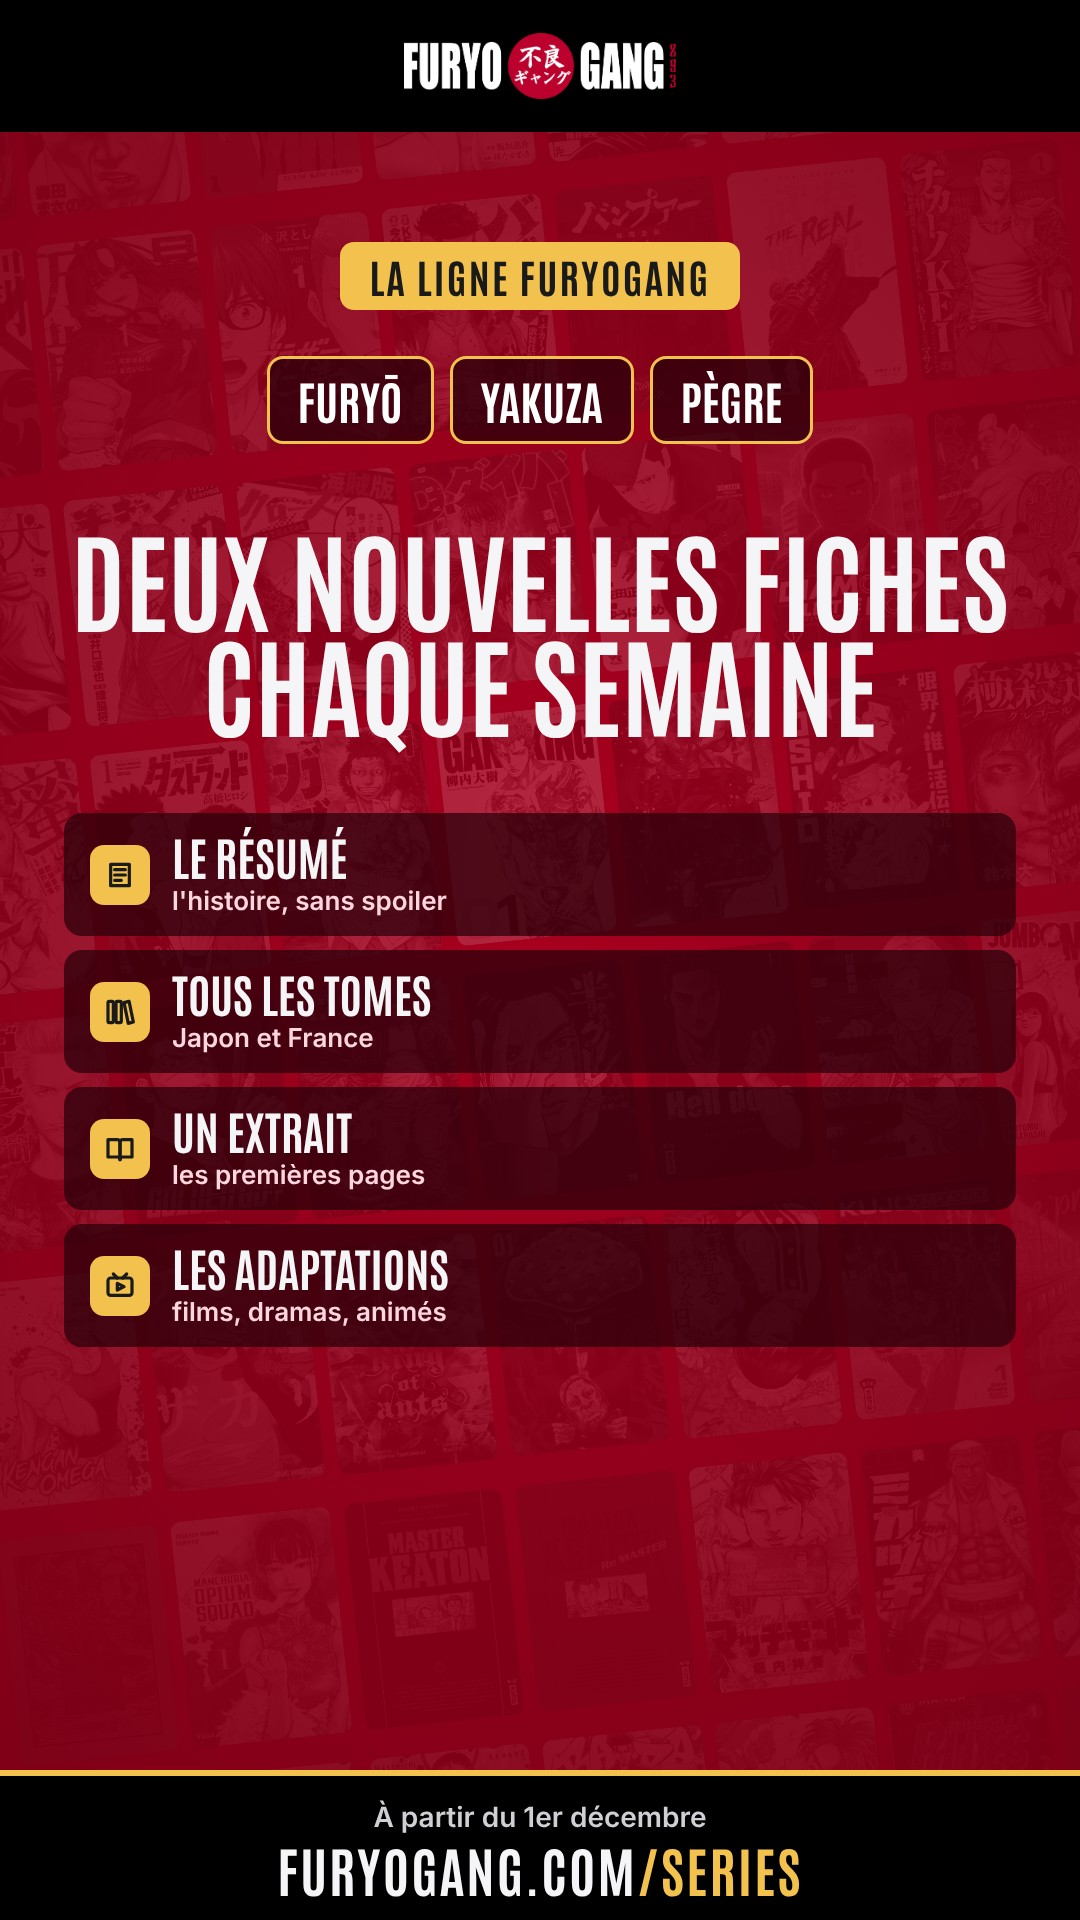
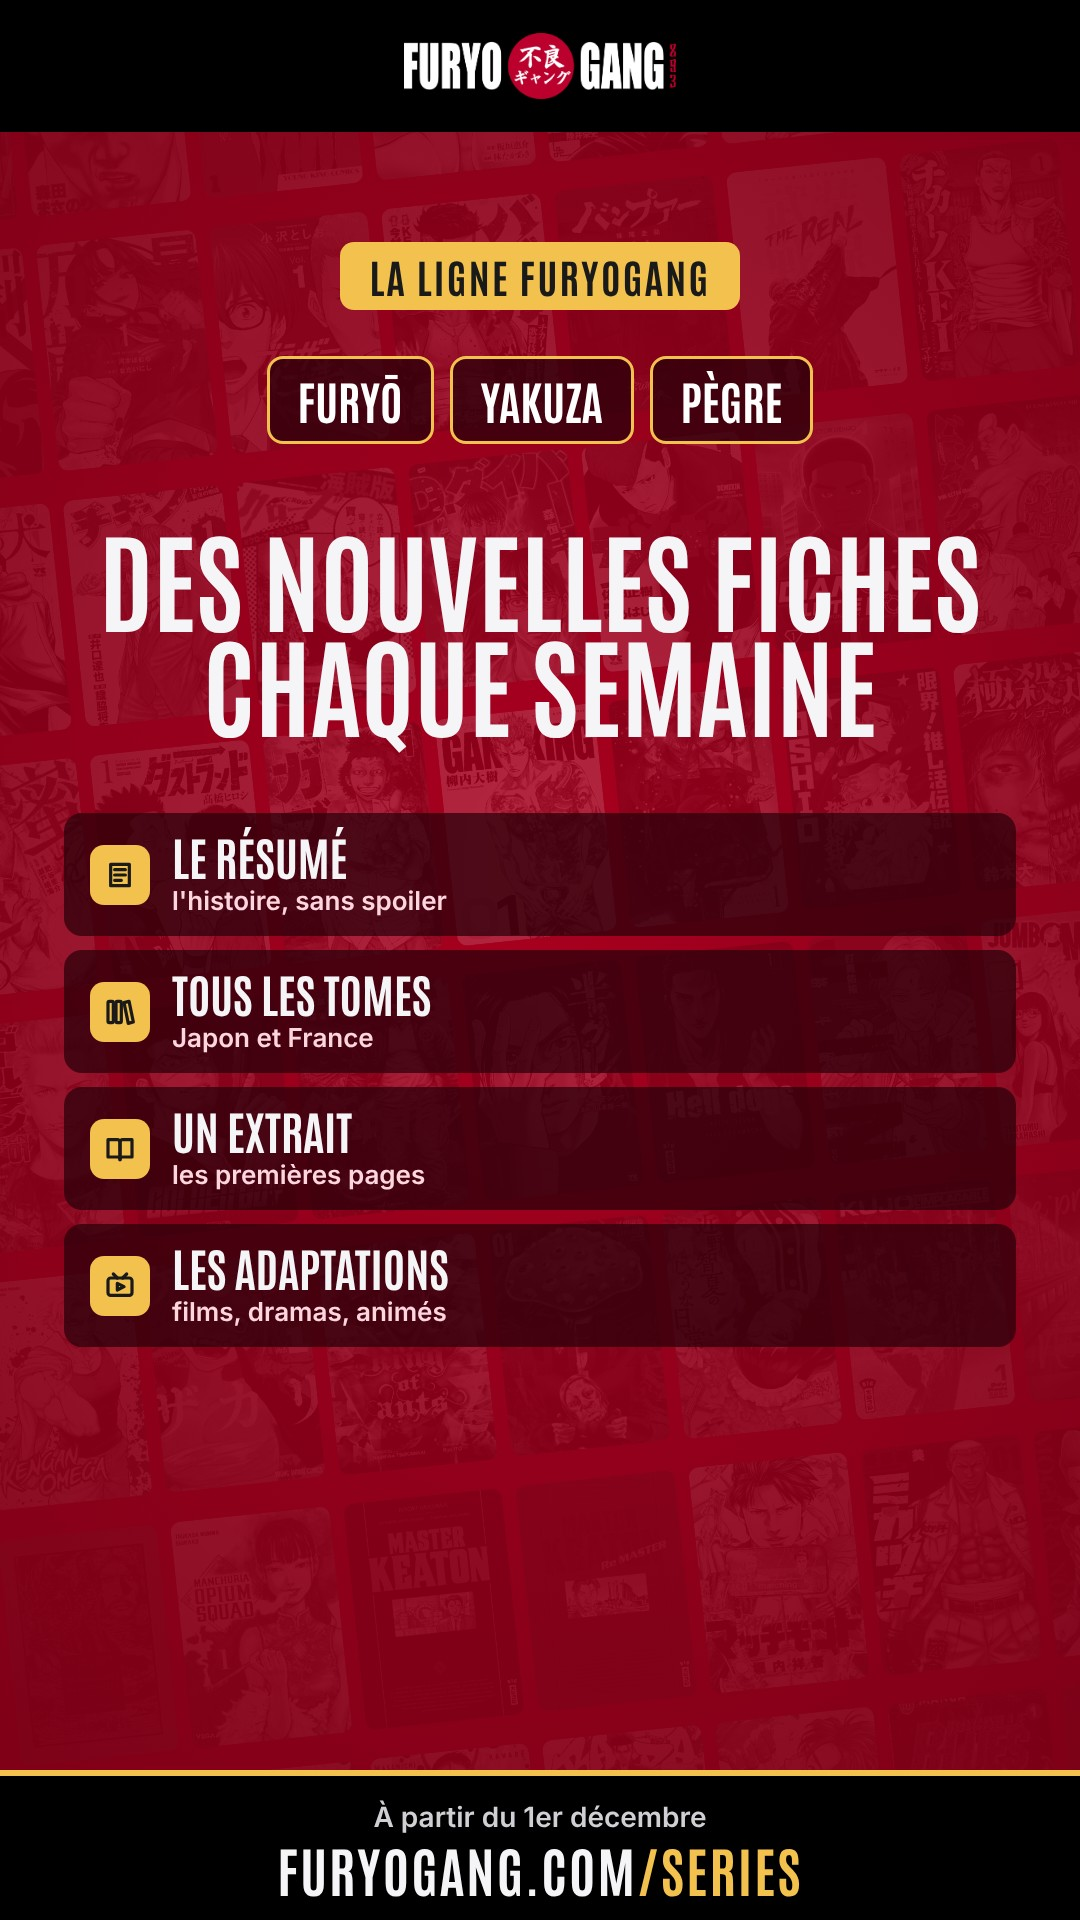
Annonce Manga Database : « Des nouvelles fiches chaque semaine »
Claude-Session: https://claude.ai/code/session_01ShgbxL6GpEPzbudUpDfTjj

Changed region(s): [[0.0611, 0.2812, 0.9472, 0.3438]]

diff --git a/functions/api/admin/calendrier.js b/functions/api/admin/calendrier.js
@@ -10,7 +10,7 @@
 // Un événement peut porter : imp (important), tirage (texte), visuels (liste d'URL), textes {ig,tw,tiktok}.
 import { json, isAdmin } from "../../../lib/admin.js";
 const CLE = "hq:calendrier";
-const SEED_V = 11; // bump → rejoue la migration des rendez-vous de départ (garde les ajouts de Will)
+const SEED_V = 12; // bump → rejoue la migration des rendez-vous de départ (garde les ajouts de Will)
 const uid = () => Date.now().toString(36) + Math.random().toString(36).slice(2, 6);
 
 // Textes prêts à publier pour le concours figurine (validés avec Will, 18/10).
@@ -51,7 +51,7 @@ const DEPART = {
       note: "Annonce des fiches : le post (Instagram + X) et les 3 stories. Programmer à 17 h.",
       visuels: ["/img/annonce/manga-database/post.jpg"],
       stories: ["/img/annonce/manga-database/story-1.jpg", "/img/annonce/manga-database/story-2.jpg", "/img/annonce/manga-database/story-3.jpg"],
-      textes: { ig: "📢 NOUVEAU SUR FURYOGANG : LA MANGA DATABASE 📚\n\nVous pouviez déjà gérer votre collection sur le site. Place maintenant aux fiches 🗂\n\nFuryoGang devient une vraie base de données des mangas furyō, yakuza et pègre. Deux nouvelles fiches chaque semaine, à partir du 1er décembre :\n📖 le résumé\n📚 tous les tomes, au Japon et en France\n📅 les prochaines sorties\n👀 un extrait\n🎬 les adaptations\n\nPremière fiche mardi. Vous devinez laquelle ? 🐦⬛\n\n#FuryoGang #manga #furyo #yakuza #mangafr", tw: "Nouveau sur FuryoGang : la Manga Database\nVous pouviez déjà gérer votre collection sur le site. Place maintenant aux fiches.\n\nUne base des mangas furyō, yakuza et pègre : résumé, tomes, sorties, extraits, adaptations. Deux nouvelles fiches chaque semaine.\n\nPremière fiche mardi.", tiktok: "" },
+      textes: { ig: "📢 NOUVEAU SUR FURYOGANG : LA MANGA DATABASE 📚\n\nVous pouviez déjà gérer votre collection sur le site. Place maintenant aux fiches 🗂\n\nFuryoGang devient une vraie base de données des mangas furyō, yakuza et pègre. Des nouvelles fiches chaque semaine, à partir du 1er décembre :\n📖 le résumé\n📚 tous les tomes, au Japon et en France\n📅 les prochaines sorties\n👀 un extrait\n🎬 les adaptations\n\nPremière fiche mardi. Vous devinez laquelle ? 🐦⬛\n\n#FuryoGang #manga #furyo #yakuza #mangafr", tw: "Nouveau sur FuryoGang : la Manga Database\nVous pouviez déjà gérer votre collection sur le site. Place maintenant aux fiches.\n\nUne base des mangas furyō, yakuza et pègre : résumé, tomes, sorties, extraits, adaptations. Des nouvelles fiches chaque semaine.\n\nPremière fiche mardi.", tiktok: "" },
     },
     {
       id: "ev-concours", titre: "Concours figurine", type: "concours", date: "2026-10-21", imp: true,
@@ -114,6 +114,9 @@ function migrer(d) {
   // Types : ajoute les manquants + met à jour les noms (cosmétique, aucune donnée de Will).
   const typById = new Map(d.types.map(t => [t.id, t]));
   for (const t of DEPART.types) { const ex = typById.get(t.id); if (ex) ex.nom = t.nom; else d.types.push(JSON.parse(JSON.stringify(t))); }
+  // Annonce Manga Database : textes corrigés (« Des nouvelles fiches chaque semaine », Will 26/11/2026) tant qu'elle n'est pas publiée.
+  const an = parId.get("ev-annonce-mdb"), sAn = DEPART.events.find(e => e.id === "ev-annonce-mdb");
+  if (an && sAn && !an.fait) { an.textes = sAn.textes; an.stories = sAn.stories; an.prog = true; }
   d.sv = SEED_V;
   return d;
 }

diff --git a/modeles/annonce/manga-database.html b/modeles/annonce/manga-database.html
@@ -37,13 +37,13 @@ fetch("/api/series").then(r => r.json()).then(j => {
   const ordre = [fanS[0], fanS[1], fanS[2], fanS[3], fanS[4]];
   const fan = ordre.map((s, i) => { const [d, w] = pos[i], h = Math.round(w * 1.42), c = d === 0; return `<img src="${couv(s.cover, 600)}" style="left:${Math.round(476 - w / 2 + d * 205)}px;top:${c ? 0 : 60}px;width:${w}px;height:${h}px;z-index:${10 - Math.abs(d)};transform:rotate(${d * 5}deg)${c ? "" : ";filter:brightness(.85)"}">`; }).join("");
   const fond = `<div class="mz">${mz}</div><div class="vl"></div><div class="top"><img src="/img/social/logo-blanc.png"></div>`;
-  const bas = `<div class="bas"><small>Deux nouvelles fiches chaque semaine</small><b>furyogang.com<em>/series</em></b></div>`;
+  const bas = `<div class="bas"><small>Des nouvelles fiches chaque semaine</small><b>furyogang.com<em>/series</em></b></div>`;
   const basS = `<div class="bas"><small>À partir du 1er décembre</small><b>furyogang.com<em>/series</em></b></div>`;
   const rows = [[I.res, "Le résumé", "l'histoire, sans spoiler"], [I.tom, "Tous les tomes", "Japon et France"], [I.ext, "Un extrait", "les premières pages"], [I.ad, "Les adaptations", "films, dramas, animés"]];
   const post = `<div class="f">${fond}<div class="in"><span class="pill">Nouveau sur FuryoGang</span><h1>Manga Database</h1><div class="sub">Les fiches manga furyō, yakuza et pègre arrivent</div>
     <div class="fan">${fan}</div><div class="rows">${rows.map(r => `<div class="row"><i>${r[0]}</i><div><b>${r[1]}</b><span>${r[2]}</span></div></div>`).join("")}</div></div>${bas}</div>`;
   const s1 = `<div class="f s">${fond}<div class="in"><span class="pill">Nouveau sur FuryoGang</span><h1>Manga<br>Database</h1><div class="txt">Les fiches manga arrivent sur le site.</div><div class="fan" style="margin-top:110px;height:480px">${fan}</div></div>${basS}</div>`;
-  const s2 = `<div class="f s">${fond}<div class="in"><span class="pill">La ligne FuryoGang</span><div class="tags"><span>Furyō</span><span>Yakuza</span><span>Pègre</span></div><div class="big" style="margin-top:80px">Deux nouvelles fiches chaque semaine</div><div class="rows" style="margin-top:80px">${rows.map(r => `<div class="row"><i>${r[0]}</i><div><b>${r[1]}</b><span>${r[2]}</span></div></div>`).join("")}</div></div>${basS}</div>`;
+  const s2 = `<div class="f s">${fond}<div class="in"><span class="pill">La ligne FuryoGang</span><div class="tags"><span>Furyō</span><span>Yakuza</span><span>Pègre</span></div><div class="big" style="margin-top:80px">Des nouvelles fiches chaque semaine</div><div class="rows" style="margin-top:80px">${rows.map(r => `<div class="row"><i>${r[0]}</i><div><b>${r[1]}</b><span>${r[2]}</span></div></div>`).join("")}</div></div>${basS}</div>`;
   const s3 = `<div class="f s">${fond}<div class="in"><span class="pill">Première fiche</span><div class="big" style="font-size:230px;margin-top:120px">Mardi</div><div class="txt" style="font-size:52px">Une légende du furyō ouvre la base.<br>Vous devinez laquelle ?</div><div class="fan" style="margin-top:90px;height:520px"><img src="${couv(by.crows.cover, 600)}" style="left:316px;top:0;width:320px;height:454px;z-index:5;filter:blur(22px) brightness(.75)"></div></div>${basS}</div>`;
   document.getElementById("app").innerHTML = post + s1 + s2 + s3;
 });
